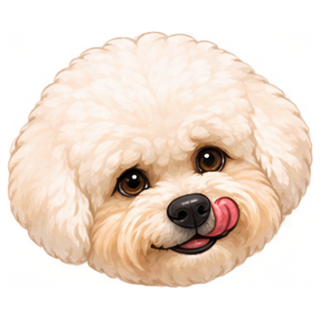
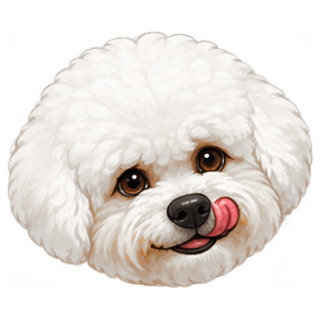
Toby Ivory Edition: whiter Toby across all game art
Replaces the 11 toby/ images with Mike's colour-corrected Ivory Edition
(same sizes, poses and transparency). Home hero and app icon unchanged.

Claude-Session: https://claude.ai/code/session_01X2DzHikvmZdyBSqugt2kme

diff --git a/sw.js b/sw.js
@@ -1,5 +1,5 @@
 // Sudogku service worker: works offline once installed.
-const CACHE = 'sudogku-toby-v22';
+const CACHE = 'sudogku-toby-v23';
 const FILES = ['./', 'index.html', 'engine.js', 'manifest.webmanifest', 'icon-180.png', 'icon-192.png', 'icon-512.png', 'logo.png', 'toby-home.png', 'toby/tile.png', 'toby/tile-head.png', 'toby/face-happy.png', 'toby/face-focused.png', 'toby/face-excited.png', 'toby/face-sorry.png', 'toby/face-cheeky.png', 'toby/act-sniff.png', 'toby/act-hint.png', 'toby/act-complete.png', 'toby/act-oops.png'];
 self.addEventListener('install', e => { e.waitUntil(caches.open(CACHE).then(c => c.addAll(FILES))); self.skipWaiting(); });
 self.addEventListener('activate', e => {

diff --git a/CLAUDE_HANDOFF.md b/CLAUDE_HANDOFF.md
@@ -9,6 +9,7 @@ Ad-free, offline, dog-themed take on Meowdoku. Installable PWA. Single-file UI (
 - Three golden bones. Out of bones: Try again, or Keep going with one extra bone for half points.
 - **Starter dog only when needed** (like Meowdoku): a puzzle with an easy opening (a one-square colour, or a colour sitting in a single row/column) starts blank; otherwise it gets one locked starter dog. About 1 level in 10 gets one. Difficulty is graded from the actual starting board.
 - One long level track. **Daily puzzle** unlocks after level 20 (8×8, Hard), with streak and best time.
+- **Toby is ivory/white** (Ivory Edition colour correction of all `toby/` art, Nov 2026). Home hero `toby-home.png` and app icons are still the older cream colouring.
 - **Mascot is Toby** (Mike's dog), from Mike's character sheet. Each sheet item is used where the sheet says (all in `toby/`, transparent PNGs). The expressions, action poses and tile head now come from Mike's clean separate render `design/toby-expressions.png` (transparent, row 1: sniff, hint, oops, happy, focused; row 2: excited, sorry, cheeky, tile head):
   - In-Game Icon (Tile) → `tile-head.png` (Toby's head lifted off the icon's lilac square): every placed dog, sitting on the square's own region colour.
   - Colour key above the board: each colour is a Toby-head silhouette (masked from `face-happy.png`) filled with that colour; when the colour has its dog it becomes the solid Happy face.
